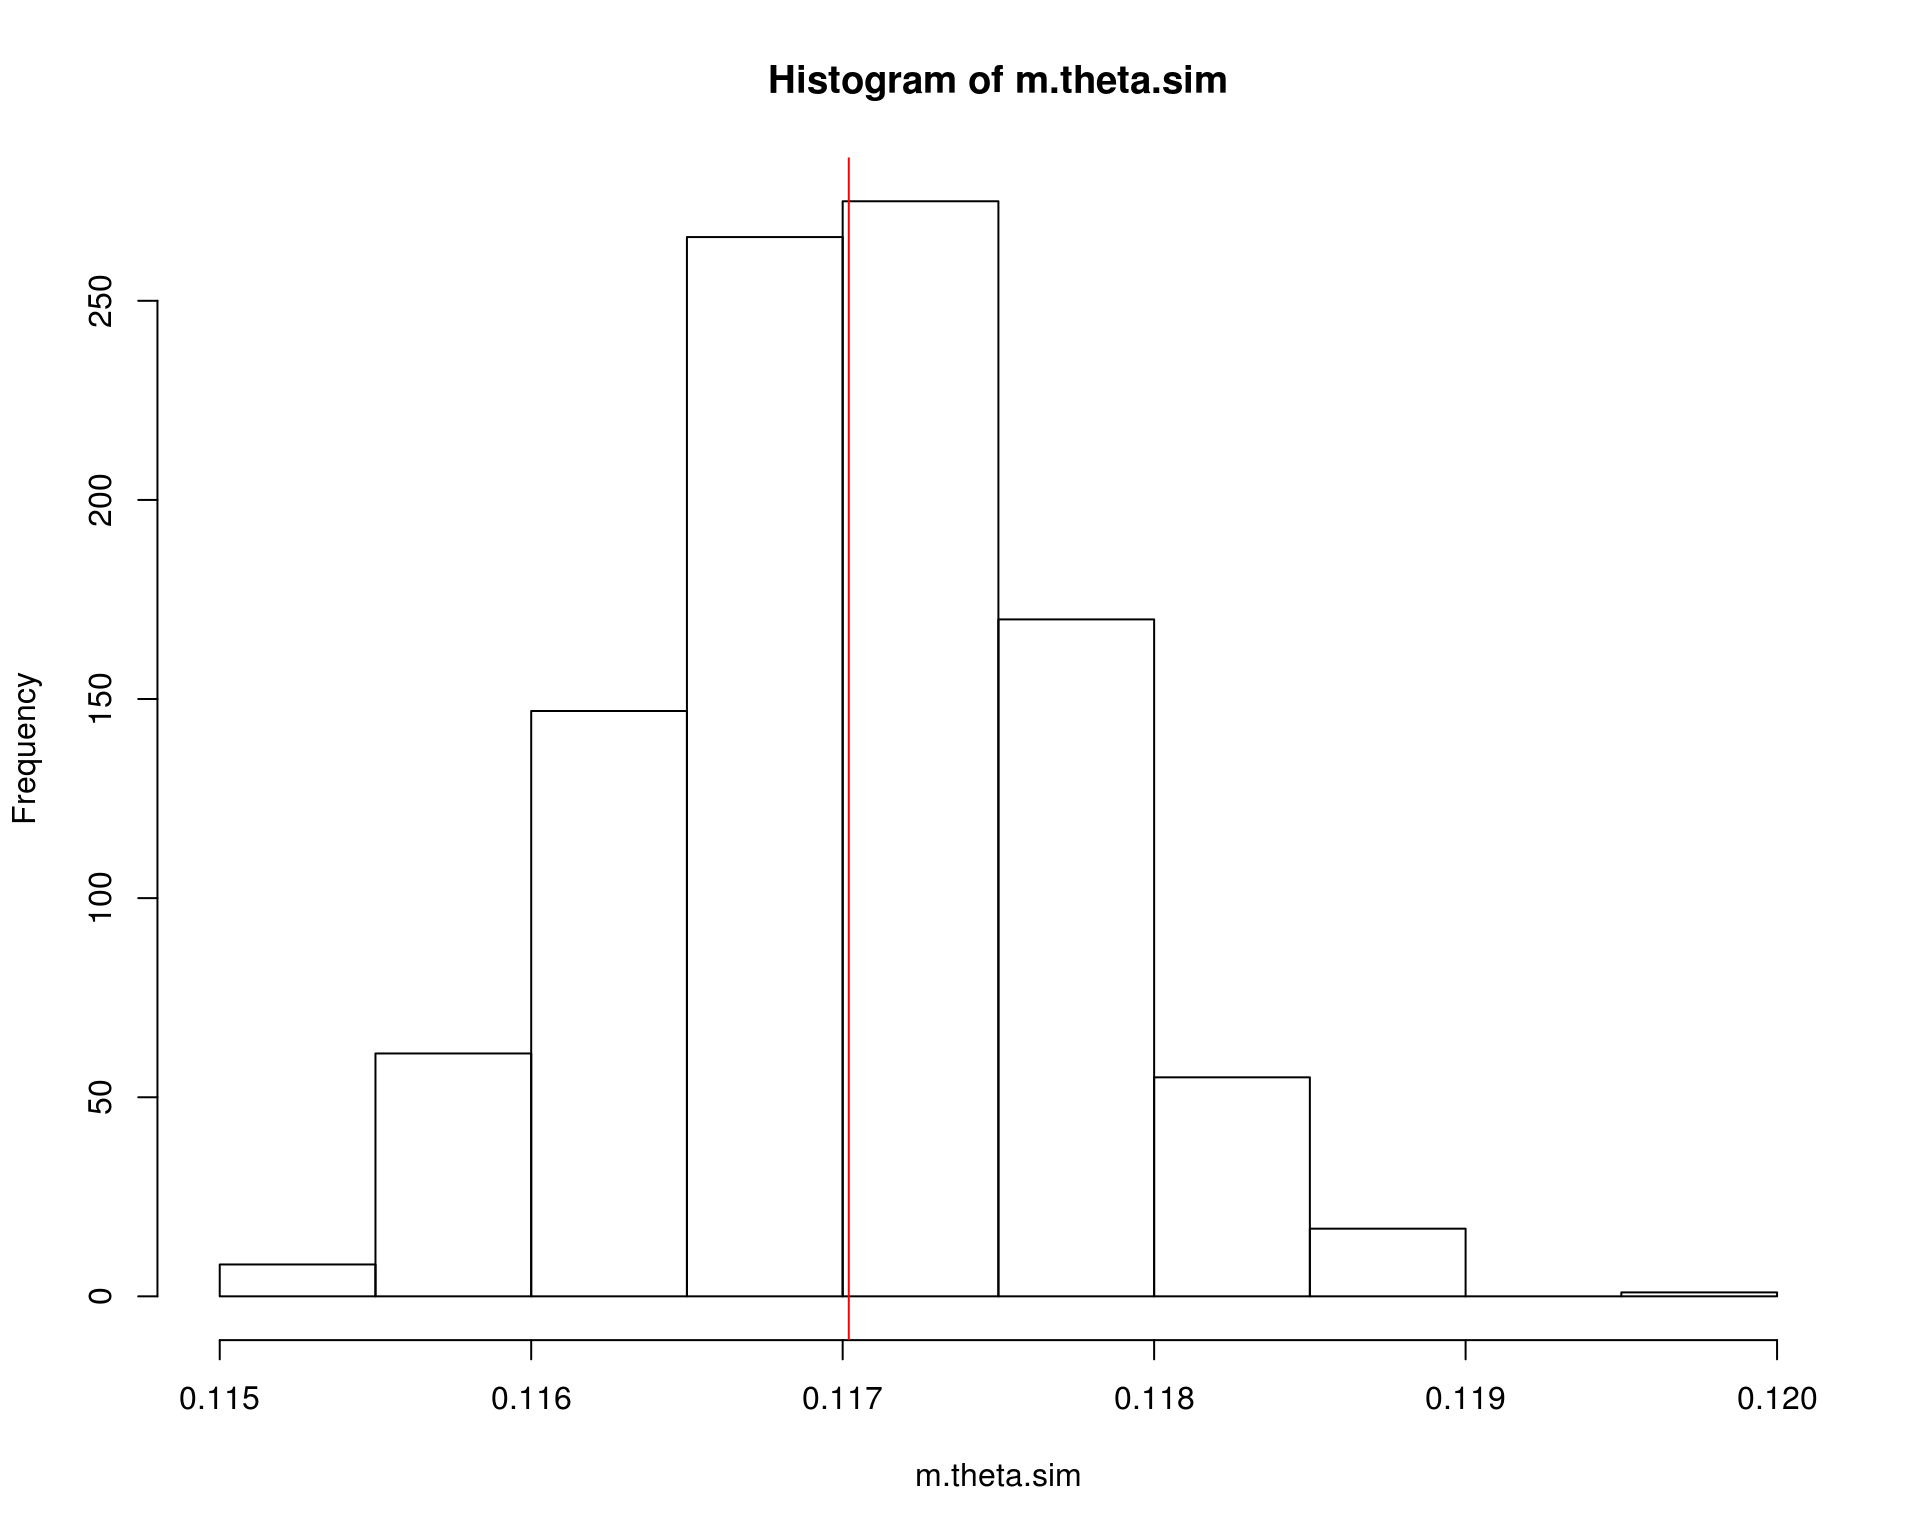
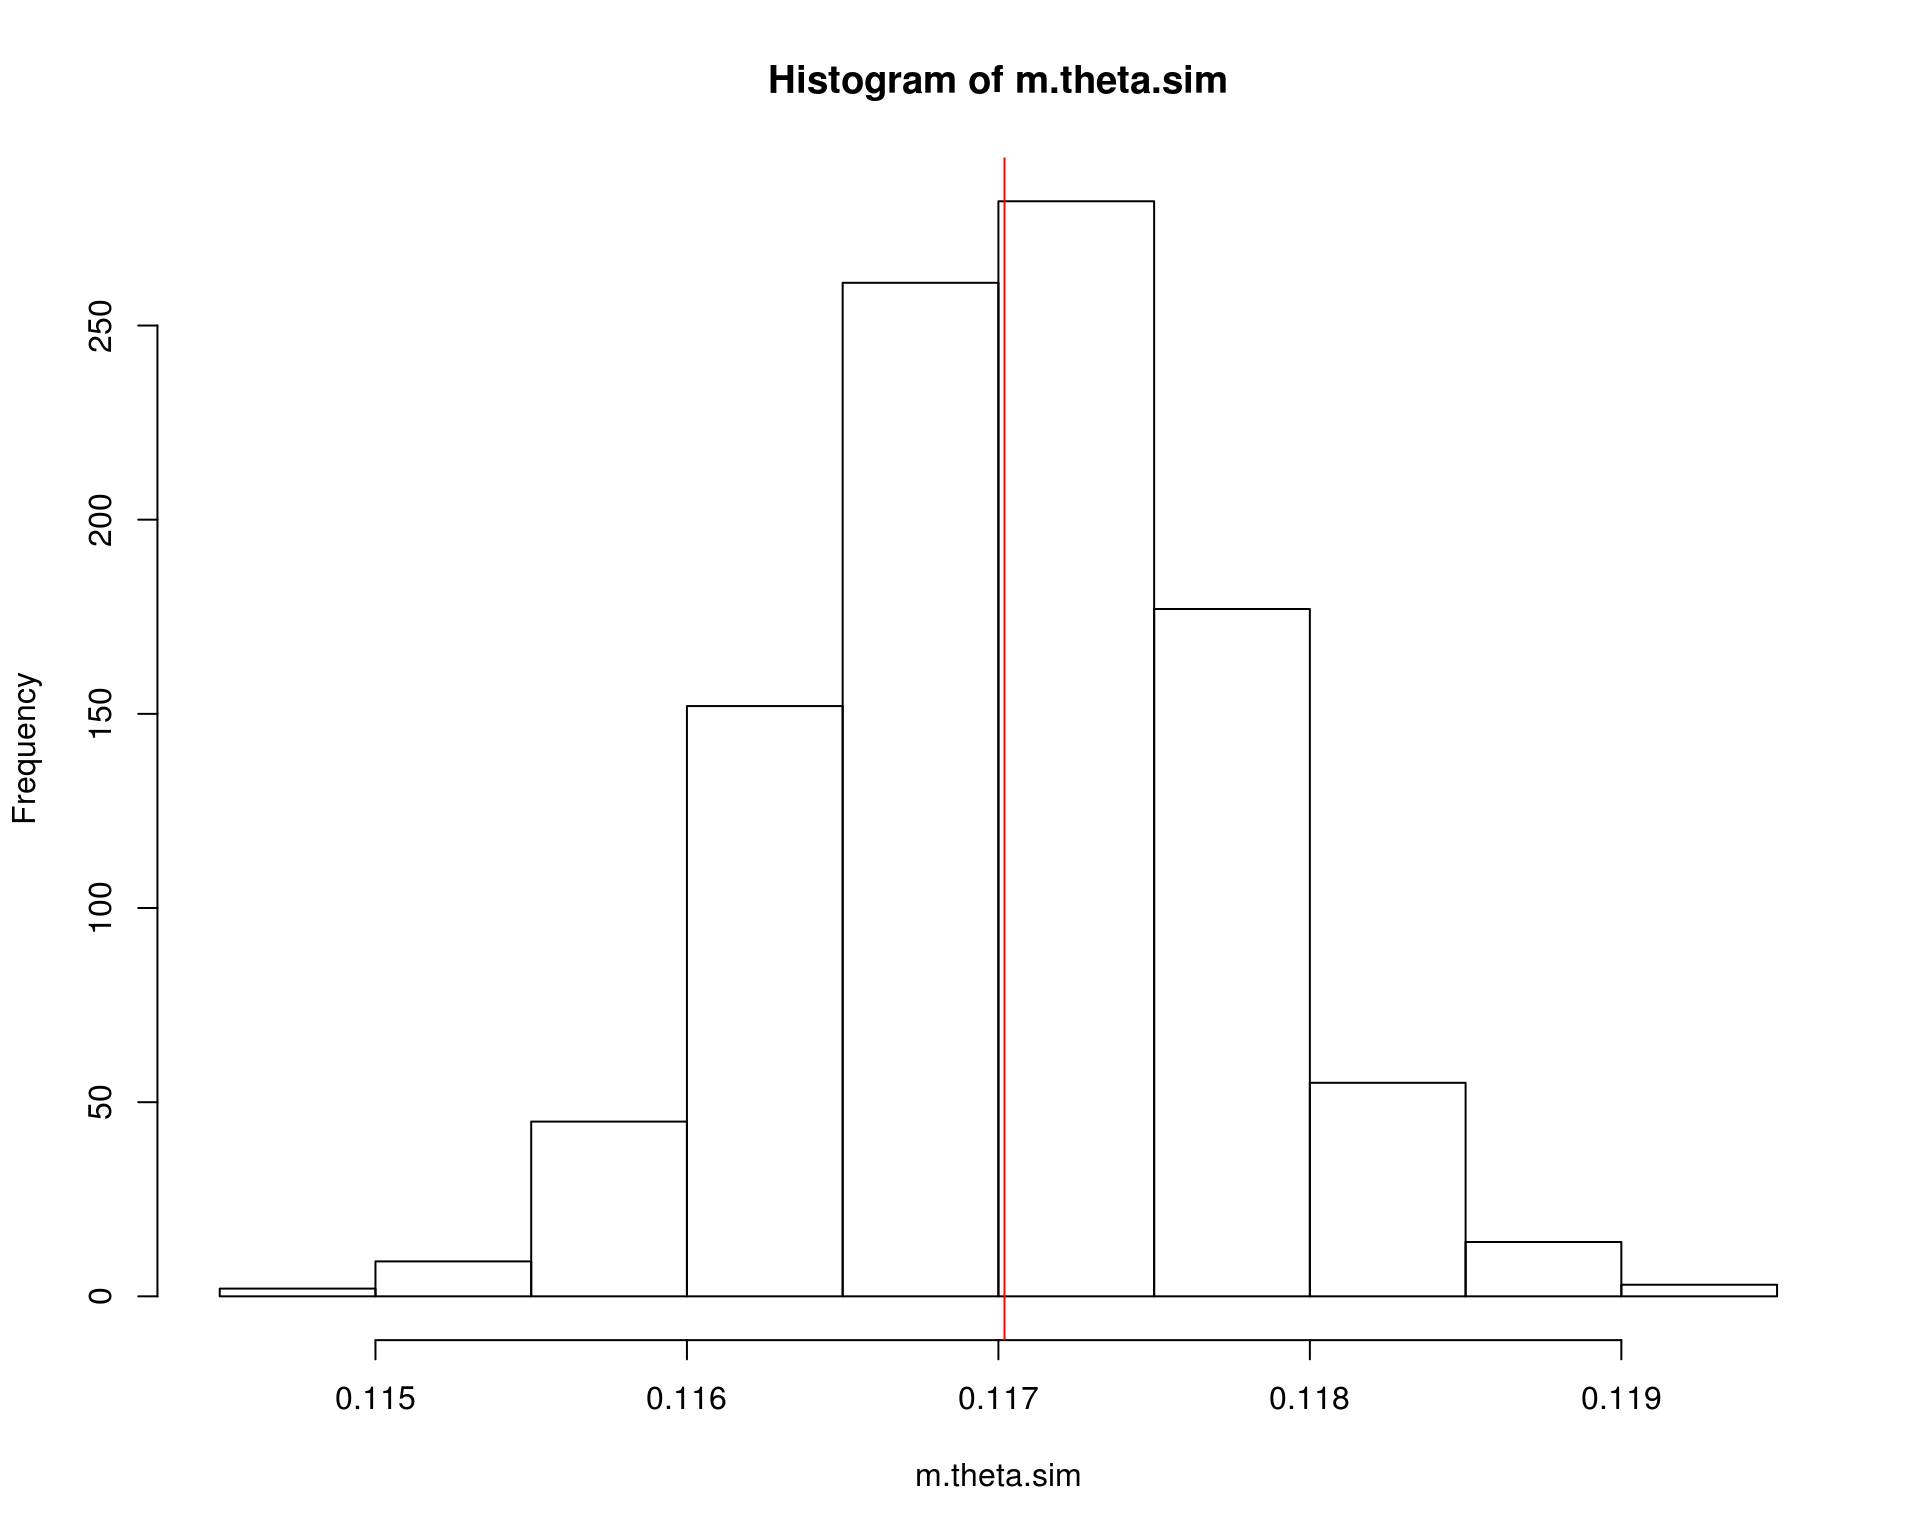
The site is alive.

diff --git a/MC_intro.html b/MC_intro.html
@@ -553,7 +553,7 @@ P(\lim_{n \to \infty} |\bar{X}_n - \mu| &lt; \epsilon) = 1
 <a class="sourceLine" id="cb1-5" title="5">theta.hat &lt;-<span class="st"> </span><span class="kw">exp</span>(<span class="op">-</span>x)</a>
 <a class="sourceLine" id="cb1-6" title="6"><span class="co">## Calcula a média</span></a>
 <a class="sourceLine" id="cb1-7" title="7">(m.theta.hat &lt;-<span class="st"> </span><span class="kw">sum</span>(theta.hat)<span class="op">/</span>m)</a>
-<a class="sourceLine" id="cb1-8" title="8"><span class="co"># [1] 0.6289271</span></a></code></pre></div>
+<a class="sourceLine" id="cb1-8" title="8"><span class="co"># [1] 0.6325073</span></a></code></pre></div>
 <p>Nesse caso, podemos obter a solução analítica e integração numérica no R para comparar as estimativas</p>
 <div class="sourceCode" id="cb2"><pre class="sourceCode r"><code class="sourceCode r"><a class="sourceLine" id="cb2-1" title="1"><span class="co">## Solução analítica</span></a>
 <a class="sourceLine" id="cb2-2" title="2">(theta &lt;-<span class="st"> </span><span class="dv">1</span> <span class="op">-</span><span class="st"> </span><span class="kw">exp</span>(<span class="op">-</span><span class="dv">1</span>))</a>
@@ -593,7 +593,7 @@ P(\lim_{n \to \infty} |\bar{X}_n - \mu| &lt; \epsilon) = 1
 <a class="sourceLine" id="cb3-6" title="6">theta.hat &lt;-<span class="st"> </span><span class="kw">exp</span>(<span class="op">-</span>x)</a>
 <a class="sourceLine" id="cb3-7" title="7"><span class="co">## Calcula a média * (b - a)</span></a>
 <a class="sourceLine" id="cb3-8" title="8">(m.theta.hat &lt;-<span class="st"> </span>(<span class="kw">sum</span>(theta.hat)<span class="op">/</span>m) <span class="op">*</span><span class="st"> </span>(b <span class="op">-</span><span class="st"> </span>a))</a>
-<a class="sourceLine" id="cb3-9" title="9"><span class="co"># [1] 0.1175445</span></a></code></pre></div>
+<a class="sourceLine" id="cb3-9" title="9"><span class="co"># [1] 0.1175092</span></a></code></pre></div>
 <p>Nesse caso, podemos obter a solução analítica e integração numérica no R para comparar as estimativas</p>
 <div class="sourceCode" id="cb4"><pre class="sourceCode r"><code class="sourceCode r"><a class="sourceLine" id="cb4-1" title="1"><span class="co">## Solução analítica</span></a>
 <a class="sourceLine" id="cb4-2" title="2">(theta &lt;-<span class="st"> </span><span class="kw">exp</span>(<span class="op">-</span><span class="dv">2</span>) <span class="op">-</span><span class="st"> </span><span class="kw">exp</span>(<span class="op">-</span><span class="dv">4</span>))</a>
@@ -614,7 +614,7 @@ P[X&gt;2] = \int_2^{\infty} e^{-x} dx
 <a class="sourceLine" id="cb5-5" title="5">theta.hat2 &lt;-<span class="st"> </span><span class="kw">exp</span>(<span class="op">-</span>x2)</a>
 <a class="sourceLine" id="cb5-6" title="6"><span class="co">## Calcula a média * (b - a)</span></a>
 <a class="sourceLine" id="cb5-7" title="7">(m.theta.hat2 &lt;-<span class="st"> </span>(<span class="kw">sum</span>(theta.hat2)<span class="op">/</span>m) <span class="op">*</span><span class="st"> </span>(<span class="fl">1e5</span> <span class="op">-</span><span class="st"> </span><span class="dv">2</span>))</a>
-<a class="sourceLine" id="cb5-8" title="8"><span class="co"># [1] 9.54483e-05</span></a>
+<a class="sourceLine" id="cb5-8" title="8"><span class="co"># [1] 9.012991e-05</span></a>
 <a class="sourceLine" id="cb5-9" title="9"><span class="co">## Solução analítica</span></a>
 <a class="sourceLine" id="cb5-10" title="10">(theta2 &lt;-<span class="st"> </span><span class="kw">exp</span>(<span class="op">-</span><span class="dv">2</span>) <span class="op">-</span><span class="st"> </span><span class="kw">exp</span>(<span class="op">-</span><span class="fl">1e5</span>))</a>
 <a class="sourceLine" id="cb5-11" title="11"><span class="co"># [1] 0.1353353</span></a>
@@ -635,17 +635,17 @@ P[X&gt;2] = \int_2^{\infty} e^{-x} dx
 \]</span></p>
 <p>Seguindo o exemplo anterior, vimos que a estimativa da integral é</p>
 <div class="sourceCode" id="cb6"><pre class="sourceCode r"><code class="sourceCode r"><a class="sourceLine" id="cb6-1" title="1">m.theta.hat</a>
-<a class="sourceLine" id="cb6-2" title="2"><span class="co"># [1] 0.1175445</span></a></code></pre></div>
+<a class="sourceLine" id="cb6-2" title="2"><span class="co"># [1] 0.1175092</span></a></code></pre></div>
 <p>Mas veja que existe uma distribuição de valores para compor esta estimativa média</p>
 <div class="sourceCode" id="cb7"><pre class="sourceCode r"><code class="sourceCode r"><a class="sourceLine" id="cb7-1" title="1"><span class="kw">hist</span>(theta.hat); <span class="kw">abline</span>(<span class="dt">v =</span> theta, <span class="dt">col =</span> <span class="dv">2</span>)</a></code></pre></div>
 <p><img src="figures/MC_intro/unnamed-chunk-9-1.png" width="80%" style="display: block; margin: auto;" /></p>
 <p>A variância relacionada ao estimador pode então ser calculada como</p>
 <div class="sourceCode" id="cb8"><pre class="sourceCode r"><code class="sourceCode r"><a class="sourceLine" id="cb8-1" title="1"><span class="co">## Variancia</span></a>
 <a class="sourceLine" id="cb8-2" title="2">(v.theta.hat &lt;-<span class="st"> </span><span class="kw">sum</span>((theta.hat <span class="op">-</span><span class="st"> </span>m.theta.hat)<span class="op">^</span><span class="dv">2</span>)<span class="op">/</span>m<span class="op">^</span><span class="dv">2</span>)</a>
-<a class="sourceLine" id="cb8-3" title="3"><span class="co"># [1] 4.540531e-07</span></a>
+<a class="sourceLine" id="cb8-3" title="3"><span class="co"># [1] 4.515946e-07</span></a>
 <a class="sourceLine" id="cb8-4" title="4"><span class="co">## Erro padrão</span></a>
 <a class="sourceLine" id="cb8-5" title="5">(se.theta.hat &lt;-<span class="st"> </span><span class="kw">sqrt</span>(v.theta.hat))</a>
-<a class="sourceLine" id="cb8-6" title="6"><span class="co"># [1] 0.0006738346</span></a></code></pre></div>
+<a class="sourceLine" id="cb8-6" title="6"><span class="co"># [1] 0.0006720079</span></a></code></pre></div>
 <p>Pelo Teorema do Limite Central, temos que</p>
 <p><span class="math display">\[
 \frac{\hat\theta - \text{E}(\hat\theta)}{\sqrt{\hat{V}(\hat\theta)}}
@@ -659,10 +659,10 @@ P[X&gt;2] = \int_2^{\infty} e^{-x} dx
 <p>Com esse resultado, podemos inclusive fornecer um intervalo de confiança associado à nossa estimativa</p>
 <div class="sourceCode" id="cb10"><pre class="sourceCode r"><code class="sourceCode r"><a class="sourceLine" id="cb10-1" title="1"><span class="co">## Media e veriancia</span></a>
 <a class="sourceLine" id="cb10-2" title="2"><span class="kw">c</span>(m.theta.hat, v.theta.hat)</a>
-<a class="sourceLine" id="cb10-3" title="3"><span class="co"># [1] 1.175445e-01 4.540531e-07</span></a>
+<a class="sourceLine" id="cb10-3" title="3"><span class="co"># [1] 1.175092e-01 4.515946e-07</span></a>
 <a class="sourceLine" id="cb10-4" title="4"><span class="co">## Intervalo de confiança (95%)</span></a>
 <a class="sourceLine" id="cb10-5" title="5"><span class="kw">c</span>(m.theta.hat <span class="op">-</span><span class="st"> </span><span class="fl">1.96</span> <span class="op">*</span><span class="st"> </span>se.theta.hat, m.theta.hat <span class="op">+</span><span class="st"> </span><span class="fl">1.96</span> <span class="op">*</span><span class="st"> </span>se.theta.hat)</a>
-<a class="sourceLine" id="cb10-6" title="6"><span class="co"># [1] 0.1162238 0.1188652</span></a></code></pre></div>
+<a class="sourceLine" id="cb10-6" title="6"><span class="co"># [1] 0.1161921 0.1188263</span></a></code></pre></div>
 <p>Veja que assintoticamente, i.e., conforme aumentamos o tamanho da amostra, o valor da integral se aproxima cada vez mais do valor verdadeiro (que nesse caso sabemos calcular analiticamente, apenas para comparação).</p>
 <div class="sourceCode" id="cb11"><pre class="sourceCode r"><code class="sourceCode r"><a class="sourceLine" id="cb11-1" title="1"><span class="co">## Simula a convergência para o verdadeiro valor conforme aumenta o</span></a>
 <a class="sourceLine" id="cb11-2" title="2"><span class="co">## tamanho da amostra</span></a>
